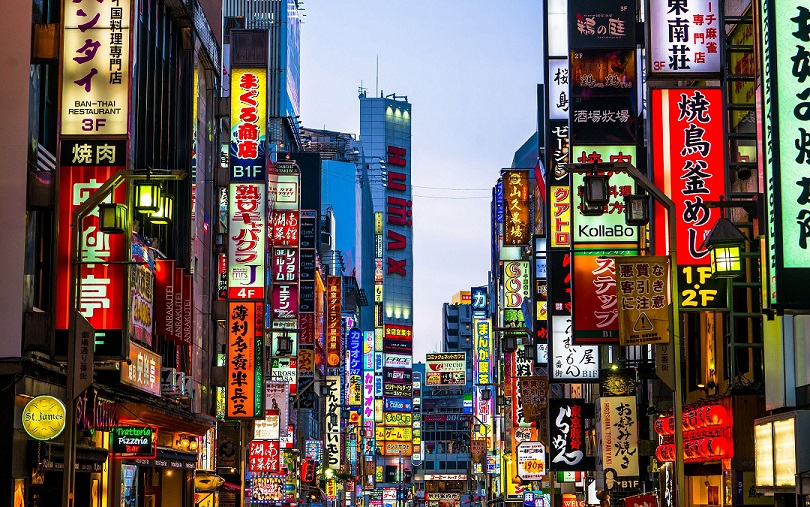
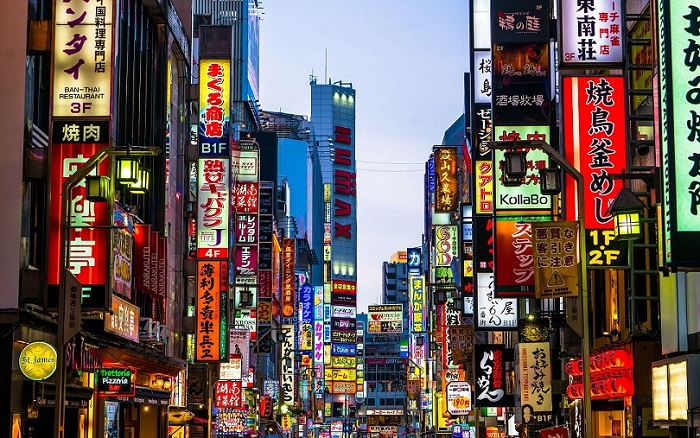
Added css

diff --git a/index.html b/index.html
@@ -22,7 +22,7 @@
       </header>
       <main>
         <section class="grid grid-2-columns">
-          <div>
+          <div class="first-img">
             <img
               src="images/Shinjuku-Wallpaper-80553.jpg"
               alt="tokyo lights"
@@ -30,8 +30,9 @@
             />
           </div>
           <div>
-            <h2>Why Tokyo?</h2>
-            <h3>Tokyo, the city of neon lights</h3>
+            <a name="more"></a>
+            <h2 class="text-center">Why Tokyo?</h2>
+            <h3 class="text-center">Tokyo, the city of neon lights</h3>
             <p>
               Tokyo, Japan’s busy capital, mixes the ultramodern and the
               traditional, from neon-lit skyscrapers to historic temples. The

diff --git a/src/style.css b/src/style.css
@@ -15,7 +15,6 @@ body {
 }
 .img-reponsive {
   width: 70%;
-
   display: block;
 }
 .grid-2-columns {
@@ -105,6 +104,7 @@ header a {
   margin-top: 32px;
   display: inline-block;
   line-height: 1.5;
+  color: #272044;
   text-align: center;
   letter-spacing: 3px;
   text-transform: uppercase;
@@ -195,6 +195,9 @@ footer a {
   }
   header h3 {
     font-size: 12px;
+  }
+  .first-img {
+    display: none;
   }
   .grid {
     grid-template-columns: 1fr;
